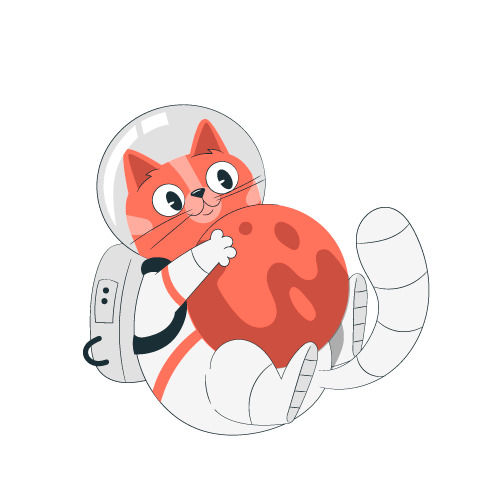
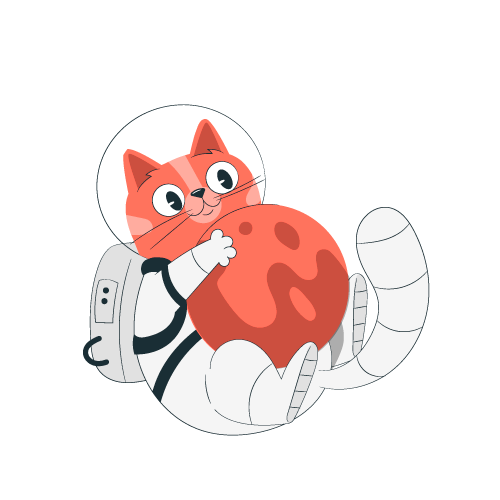
Tema dark atualizado mobile

Changed region(s): [[0.18, 0.21, 0.54, 0.51], [0.3, 0.66, 0.42, 0.81], [0.3, 0.54, 0.39, 0.63]]

diff --git a/js/darkmode.js b/js/darkmode.js
@@ -7,6 +7,7 @@ const github = document.querySelector("div#github");
 const instagram = document.querySelector("div#instagram");
 const logoMenu = document.querySelector("div#logoMenu");
 const logoHome = document.querySelector("div#logoHome");
+const gato = document.querySelector("div#gato")
 
 const getStyle = (element, style) =>
   window.getComputedStyle(element).getPropertyValue(style);
@@ -60,6 +61,7 @@ const enableDarkMode = () => {
   linkedin.classList.add("dark");
   logoMenu.classList.add("dark");
   logoHome.classList.add("dark");
+  gato.classList.add("dark")
 };
 
 const disableDarkMode = () => {
@@ -69,6 +71,7 @@ const disableDarkMode = () => {
   linkedin.classList.remove("dark");
   logoMenu.classList.remove("dark");
   logoHome.classList.remove("dark");
+  gato.classList.remove("dark")
 };
 
 checkbox.addEventListener("change", ({ target }) => {

diff --git a/css/media-queries.css b/css/media-queries.css
@@ -60,7 +60,7 @@
         height: 32px;
         width: 90vw;
         background-color: var(--containerlinkhover);
-        border-radius: 5px;
+        border-radius: 50px;
         left: 50%;
         translate: -50%;
         top: 10vh;
@@ -132,12 +132,20 @@
     position: absolute;
     display: block;
     width: 370px;
+    height: 370px;
     z-index: 1;
     top: 15vh;
     opacity: 100%;
     left: 50%;
     translate: -50%;
+    background-image: url(../imagens/gato/gato.png);
+    position: center;
+    background-size: cover;
     
+  }
+
+  #gato.dark {
+    background-image: url(../imagens/gato/gato-dark.png);
   }
 
   #logoHome {

diff --git a/index.html b/index.html
@@ -43,9 +43,11 @@
     </nav>
 
     <main id="home">
+        <div id="gato" class="rellax" data-rellax-speed="2">
 
-        <img id="gato" class="rellax" data-rellax-speed="2" 
-        src="imagens/gato/gato-laranja.png" alt="gato">
+        </div>
+        <!-- <img id="gato" class="rellax" data-rellax-speed="2" 
+        src="imagens/gato/gato.png" alt="gato"> -->
 
         <div>
             <h2 id="work-tittle"

diff --git a/css/style.css b/css/style.css
@@ -24,6 +24,7 @@ html {
     --maintittle: #f77f00;
     --bgcolor: #e5e5e5;
     --linkcolor: #001122;
+    --linkcolorincontainer: #e5e5e5;
     --linkhover: #001122;
     --linkhoverincontainer: #e5e5e5;
     --containerlinkhover: #001122;
